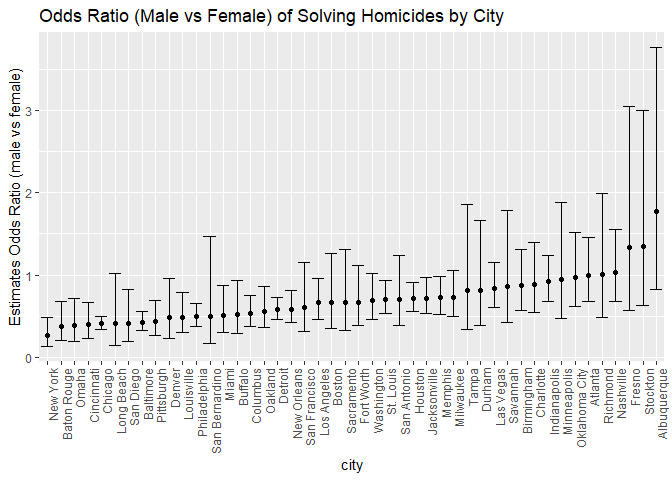
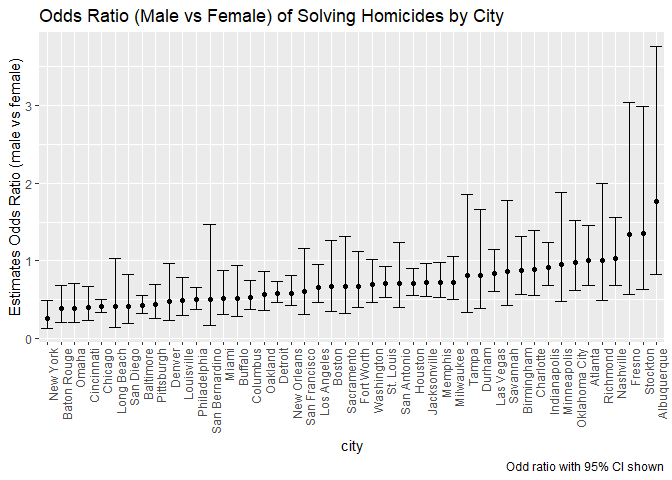
added descriptions to problems

diff --git a/HW6.md b/HW6.md
@@ -100,6 +100,15 @@ ggplot(bootstrap_df, aes(x = "", y = R_squared)) +
 
 ![](HW6_files/figure-gfm/unnamed-chunk-5-2.png)<!-- -->
 
+As seen from the box plots above, the distributions of the $\hat{r}^2$
+values and the $\log(\hat{\beta}_0 * \hat{\beta}_1)$ are roughly
+symmetric, with the box plot of $\hat{r}^2$ showing more outliers. The
+95% CI for $\hat{r}^2$ is ( 0.8936684 , 0.927106 ) and for
+$\log(\hat{\beta}_0 * \hat{\beta}_1)$ it is ( 1.9649487 , 2.0588875 ),
+meaning we are 95% confident that the true vslues for $\hat{r}^2$ and
+$\log(\hat{\beta}_0 * \hat{\beta}_1)$ lie in between these values,
+respectively.
+
 ## Problem 2
 
 ``` r
@@ -173,11 +182,20 @@ ggplot(city_df, aes(x = city, y = odds_ratio)) +
   theme(axis.text.x = element_text(angle = 90, hjust = 1)) +
   labs(x = "city", 
        y = "Estimates Odds Ratio (male vs female)",
-       title = "Odds Ratio (Male vs Female) of Solving Homicides by City"
+       title = "Odds Ratio (Male vs Female) of Solving Homicides by City",
+       caption = "Odd ratio with 95% CI shown"
        )
 ```
 
 ![](HW6_files/figure-gfm/unnamed-chunk-9-1.png)<!-- -->
+
+As seen from the plot, New York, Baton Rouge, and Omaha have the
+smallest odds ratio, while Fresno, Stockton, Albuquerque have the
+largest. In this case, the odds ratio calculates how the likelihood of
+the status being 1 (i.e. no/ open arrest) changing with a male
+vs. female victim. In cases of having and OR \< 1 (which is the case for
+most cities), a male victim is less likely to have a closed case. THe
+opposite is true for cities with an OR \> 1.
 
 ## Problem 3
 
@@ -223,11 +241,23 @@ ggplot(birth_plot_df, aes(x = yhat, y = residuals)) +
     x = "Predicted Birth Weight (yhat)",
     y = "Residuals",
     title = "Residual Plot of Full Model",
-    caption = "Full model using lm() regression for birth weight with head circumference, body length, gestational period, race, and mother smoking status as predictors"
+    caption = "Regression for birth weight with head circumference, body length, gestational period, race, and mother smoking status as predictors"
   )
 ```
 
 ![](HW6_files/figure-gfm/unnamed-chunk-12-1.png)<!-- -->
+
+There has been previous data to indicate that race (with Black newborns
+weighing less, on average, than white newborns) and smoking status of
+the mother (i.e if she smokes during pregnancy or not) affects the birth
+weight of a baby. Moreover, gestation time until birth also affects
+birth weight as pre-mature newborns weigh less than full term newborn.
+Head circumference and body length are obvious predictors as the larger
+these values are, the more a newborn is likely to weigh. For these
+reasons, I decided to use these variables as predictors in my full_model
+and compare it to the main effect (called main_model) and interaction
+model, which accounts for the interactions between the predictors
+(called interaction_model).
 
 ``` r
 cv_df = 
@@ -255,7 +285,7 @@ plot_df =
     values_to = "rmse",
     names_prefix = "rmse_") 
    
-ggplot(plot_df, aes(x = model, y = rmse)) + 
+ggplot(plot_df, aes(x = model, y = rmse)) +  
   geom_violin() + 
   labs(
     title = "RMSE comparison of the full, main effects, and three-way interaction models",
@@ -264,3 +294,8 @@ ggplot(plot_df, aes(x = model, y = rmse)) +
 ```
 
 ![](HW6_files/figure-gfm/unnamed-chunk-14-1.png)<!-- -->
+
+As seen, the full model has a lower distribution of RMSE values compared
+to the interaction model, and especially compared to the main effects
+model. This indicates predictive accuracy is highest in the full model,
+followed by the interaction model, then by the main effect model
